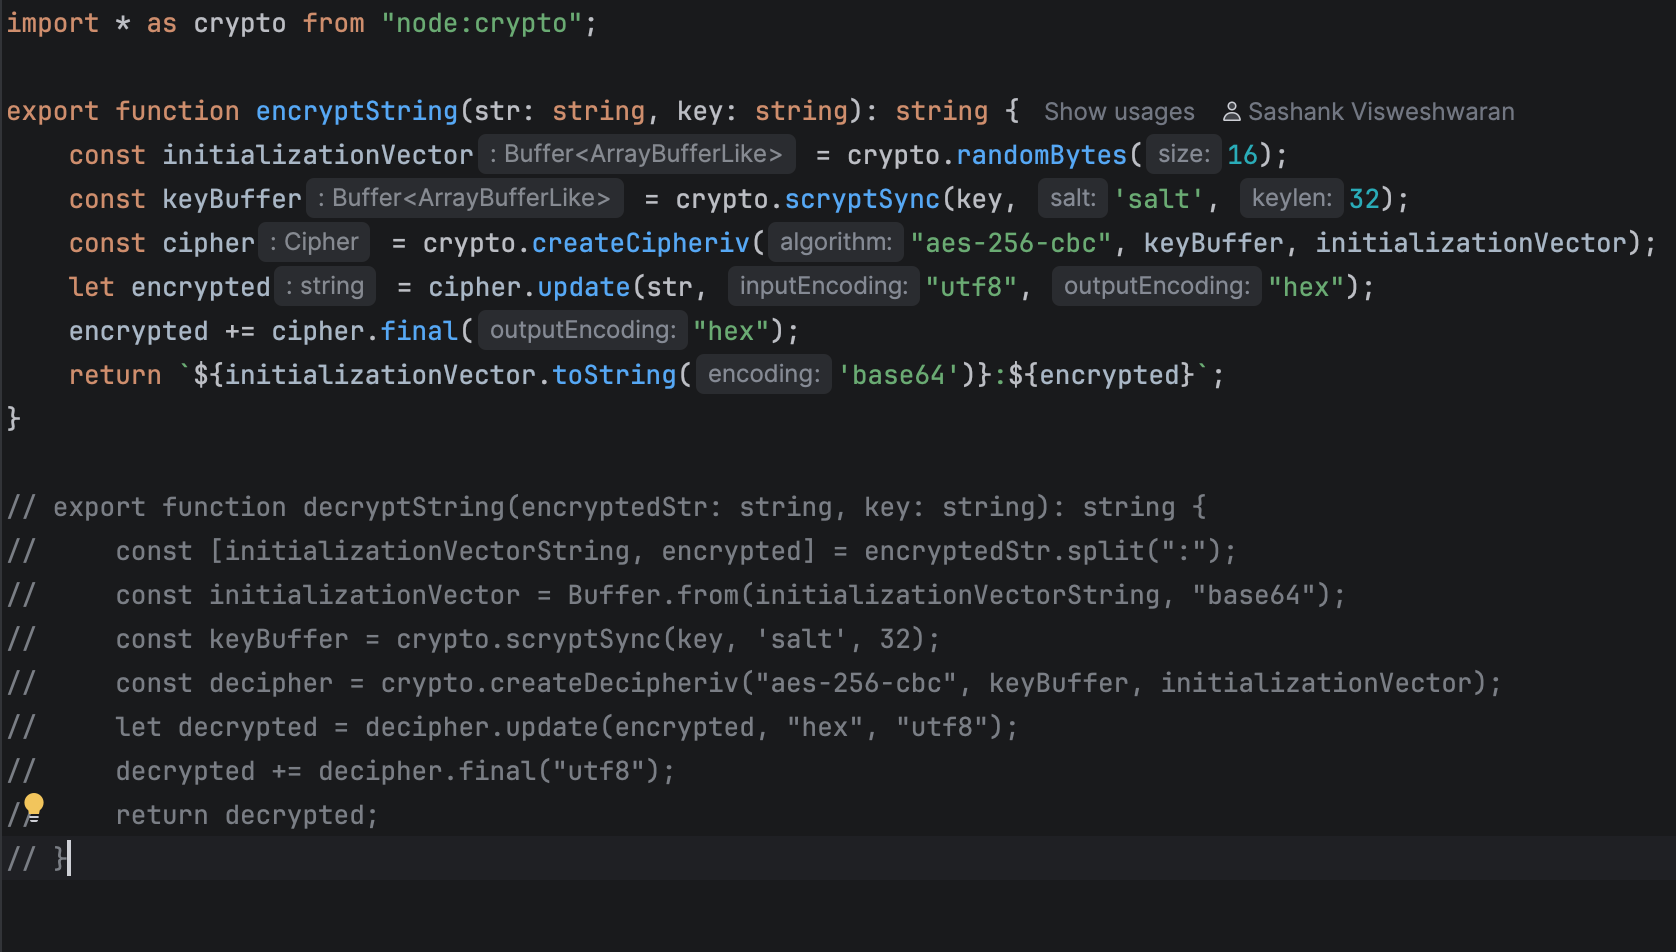
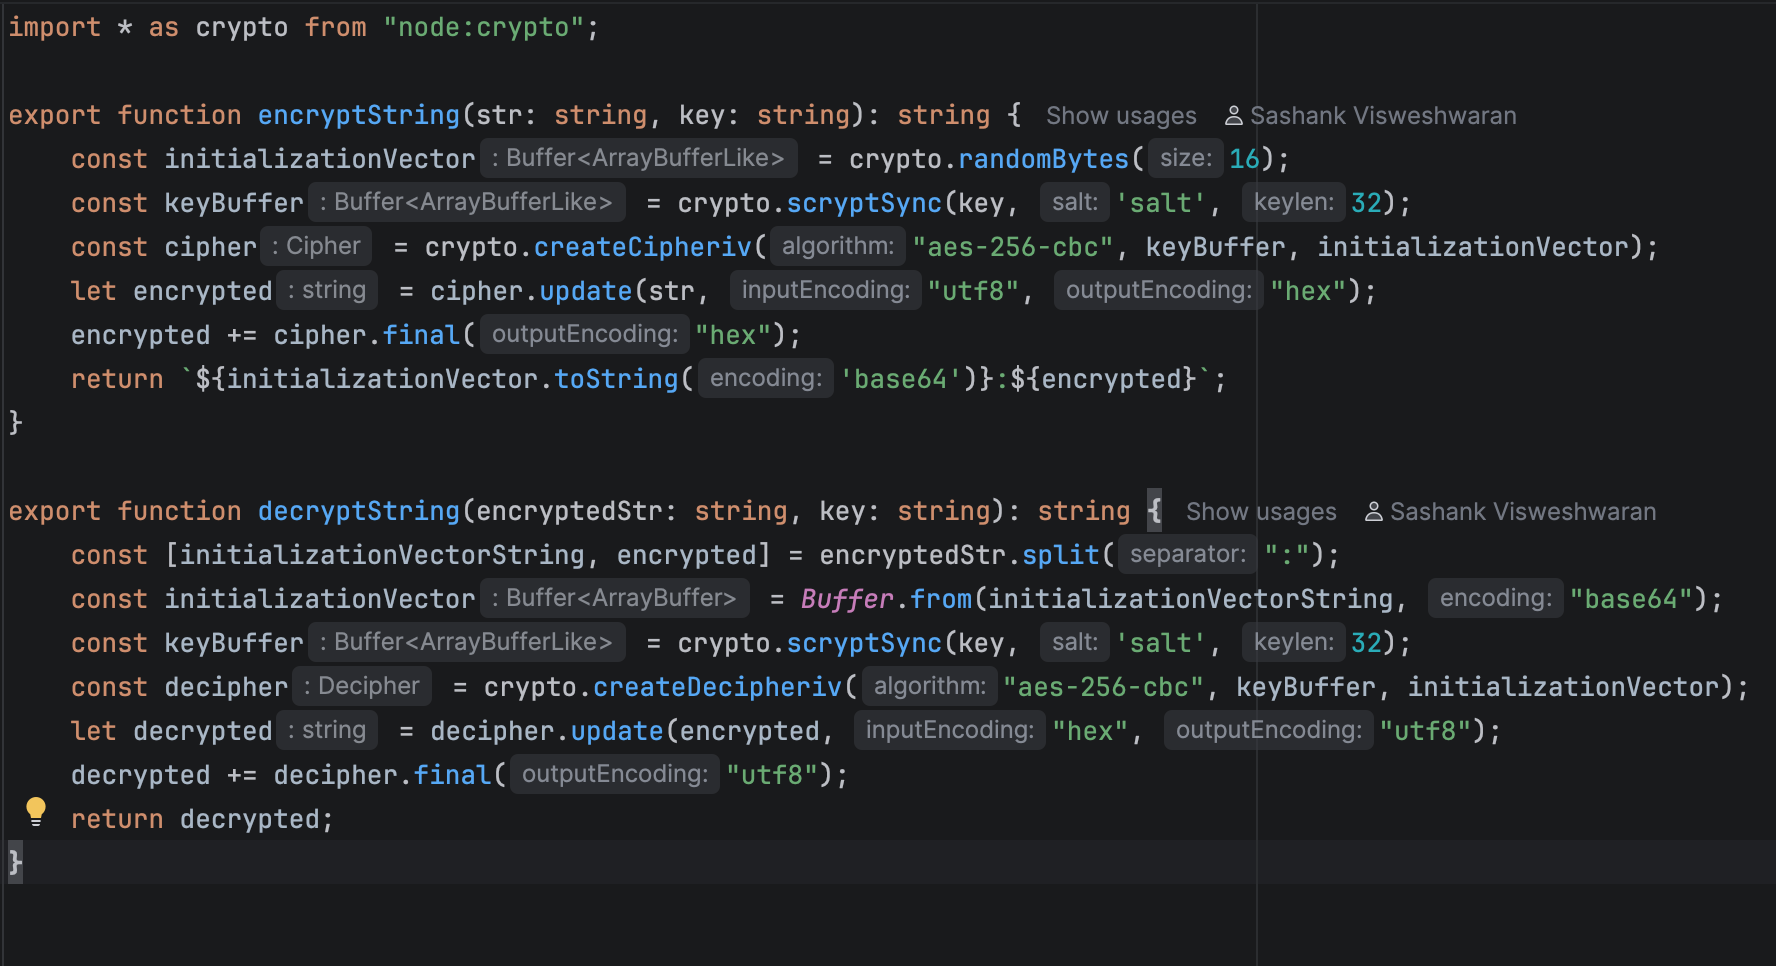
TEST : Added a few more tests and explanations regarding tests

diff --git a/test/pathways/account.test.ts b/test/pathways/account.test.ts
@@ -51,9 +51,28 @@ describe("User Bank Account Tests /account", async () => {
     assert.equal(response.newBalance?.balance, account.balance + depositAmount);
   });
 
-  it("Create Account and add transaction Invalid card number", async () => {
+  it("Create the same account type multiple times", async () => {
     // Arrange
     const user = await prepareUserForTest(2);
+    const ctx = getUserAuthContext(user);
+    const mockAccount = getMockAccount();
+    const accountRouter = accountRouterFactory(memDb);
+    let hasError = false;
+    // Act
+    await accountRouter.createCaller(ctx).createAccount(mockAccount);
+    try {
+      await accountRouter.createCaller(ctx).createAccount(mockAccount);
+    } catch {
+      hasError = true;
+    }
+
+    // Assert
+    assert.equal(hasError, true);
+  });
+
+  it("Create Account and add transaction Invalid card number", async () => {
+    // Arrange
+    const user = await prepareUserForTest(3);
     const ctx = getUserAuthContext(user);
     const accountRouter = accountRouterFactory(memDb);
     const account = await prepareAccountForTest(user.id, "1234567891");
@@ -79,7 +98,7 @@ describe("User Bank Account Tests /account", async () => {
 
   it("Create Account and add transaction valid card input", async () => {
     // Arrange
-    const user = await prepareUserForTest(3);
+    const user = await prepareUserForTest(4);
     const ctx = getUserAuthContext(user);
     const accountRouter = accountRouterFactory(memDb);
     const account = await prepareAccountForTest(user.id, "1234567892");

diff --git a/test/test_util/test_util.ts b/test/test_util/test_util.ts
@@ -49,7 +49,7 @@ export function getMockUser(randomNumber: number) {
     zipCode: "10001",
     firstName: "Shreyas",
     lastName: "V",
-    dateOfBirth: "01/01/2026",
+    dateOfBirth: "2026-01-01",
     id: "1",
     createdAt: "",
   };

diff --git a/Explanation.md b/Explanation.md
@@ -1,14 +1,14 @@
 # Explanation file
 
 # Hello! This file contains the explanation for the code changes.
-Order goes from Critical issues to minor issues but in the order (SEC, VAL, UI)
+Priority goes from Critical issues to minor issues but in the order SEC, PERF, VAL, UI within each category.
 ### Critical issues:
 #### SEC-301: SSN Storage:
 My solution was to encrypt the SSN string. If we're not using for anything else, or just using it to verify the uniqueness of the user, then we could have hashed it, since this is a bank, we may have to retrieve it for various reasons (legal compliance, credit score check etc.).
 
 <img src="explanation_screenshots/SEC-301.png" width="50%" height="auto">
 
-While we aren't using the SSN for anything else, we may want to use it in the future, so I added a decryption method which we could call.
+While we aren't using the SSN for anything else, we may want to use it in the future, so I added a decryption method which we're calling in test methods to verify if the encrypted string can be decrypted again.
 
 #### SEC-303: XSS Vulnerability:
 React escapes HTML by default, so we just need to make sure we're not using dangerouslySetInnerHTML or something similar. So, I removed it.
@@ -83,7 +83,10 @@ One of the fixes that I had mentioned in PERF-406 would fix this as well.
 
 #### VAL-201: Email Validation Problems:
 Changed the regex to check for domain suffixes. Added a few, but we could add more as needed.
+
 <img src="explanation_screenshots/VAL-201.png"  width="50%" height="auto">
+
+<img src="explanation_screenshots/VAL-201-0-1.png" width="50%" height="auto">
 
 Fixed the auto lower case issue as well; fixed it in the zod schema.
 
@@ -161,3 +164,21 @@ Had to add a fixed text color (color was the same as the light mode text color) 
 <img src="explanation_screenshots/UI-101-1.png" width="50%" height="auto">
 
 <img src="explanation_screenshots/UI-101-2.png" width="50%" height="auto">
+
+## Tests:
+I added tests to verify some of the validations and especially I wanted to find out if I can decrypt the SSN back to string (Would be funny if I can't😂)
+
+### Added tests for user account creation (including fields validation) and login:
+<img src="explanation_screenshots/TEST-0.png" width="50%" height="auto">
+
+### Added tests for creating and funding an account (including failures):
+
+<img src="explanation_screenshots/TEST-1.png" width="50%" height="auto">
+
+### Added tests for SSN encryption and decryption:
+
+<img src="explanation_screenshots/TEST-2.png" width="50%" height="auto">
+
+#### Test results, latest commit:
+
+<img src="explanation_screenshots/TEST-3.png" width="50%" height="auto">
